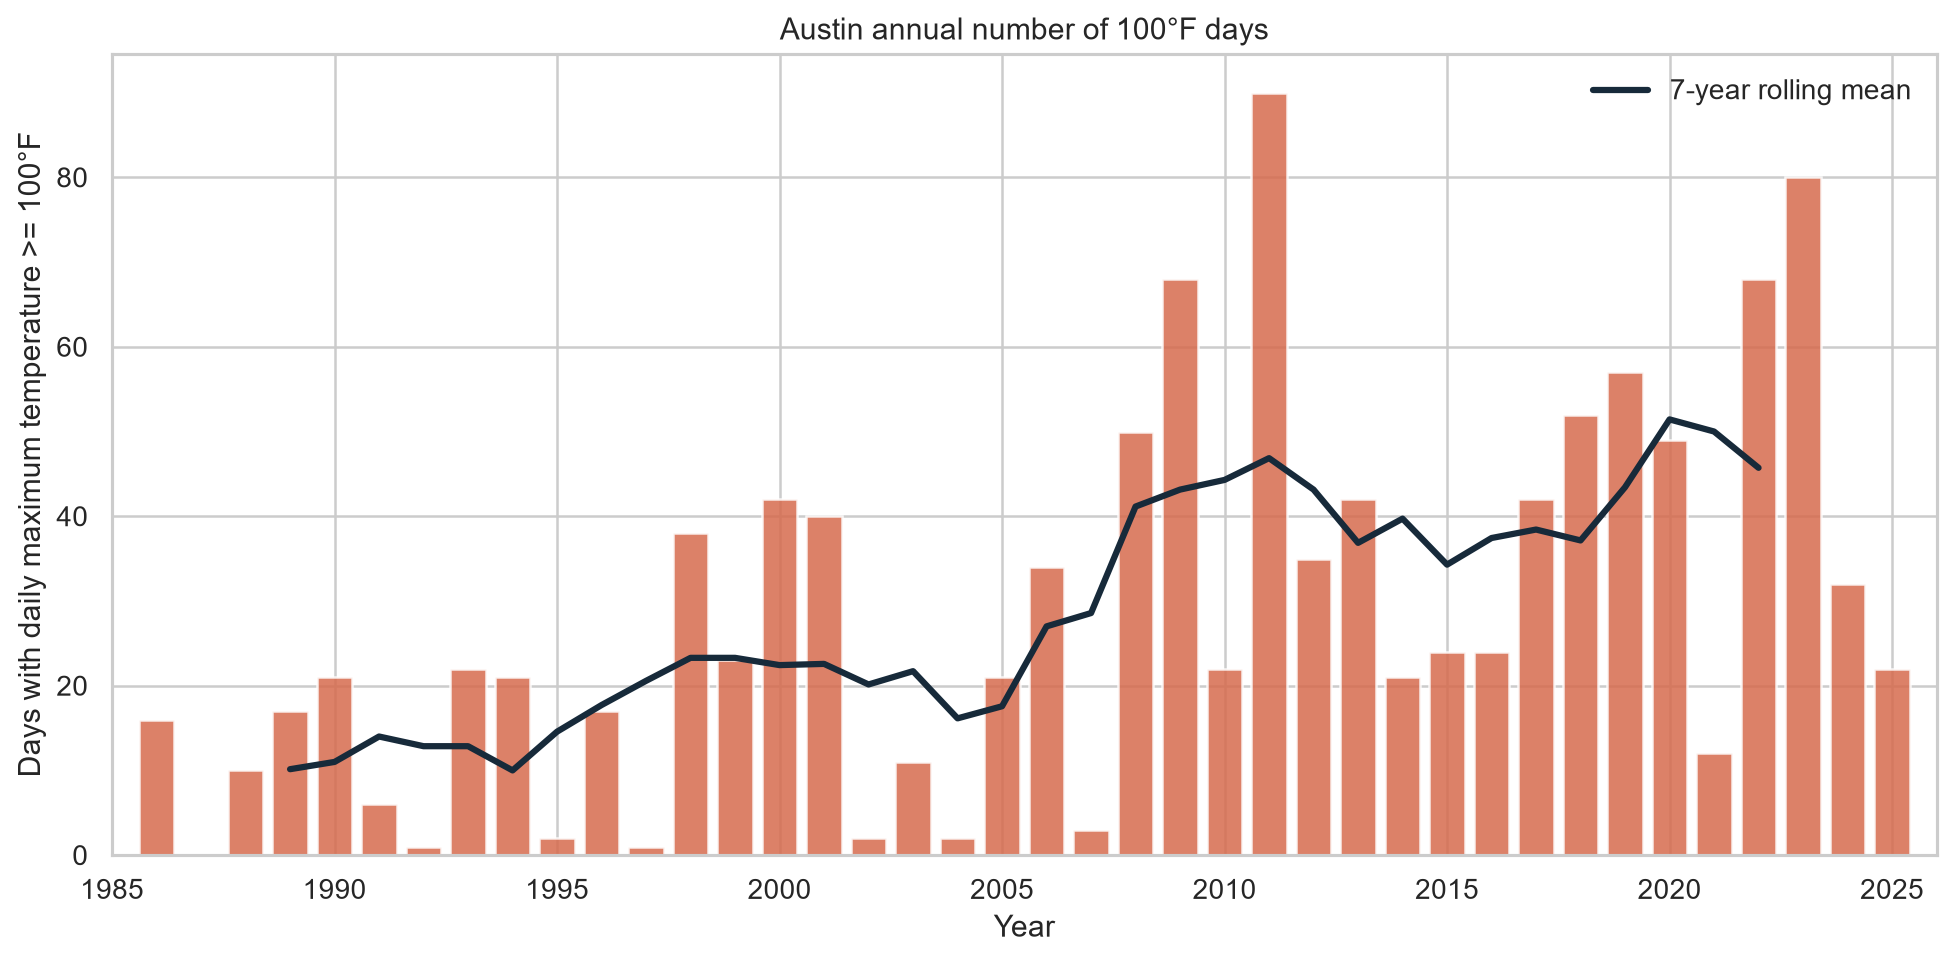
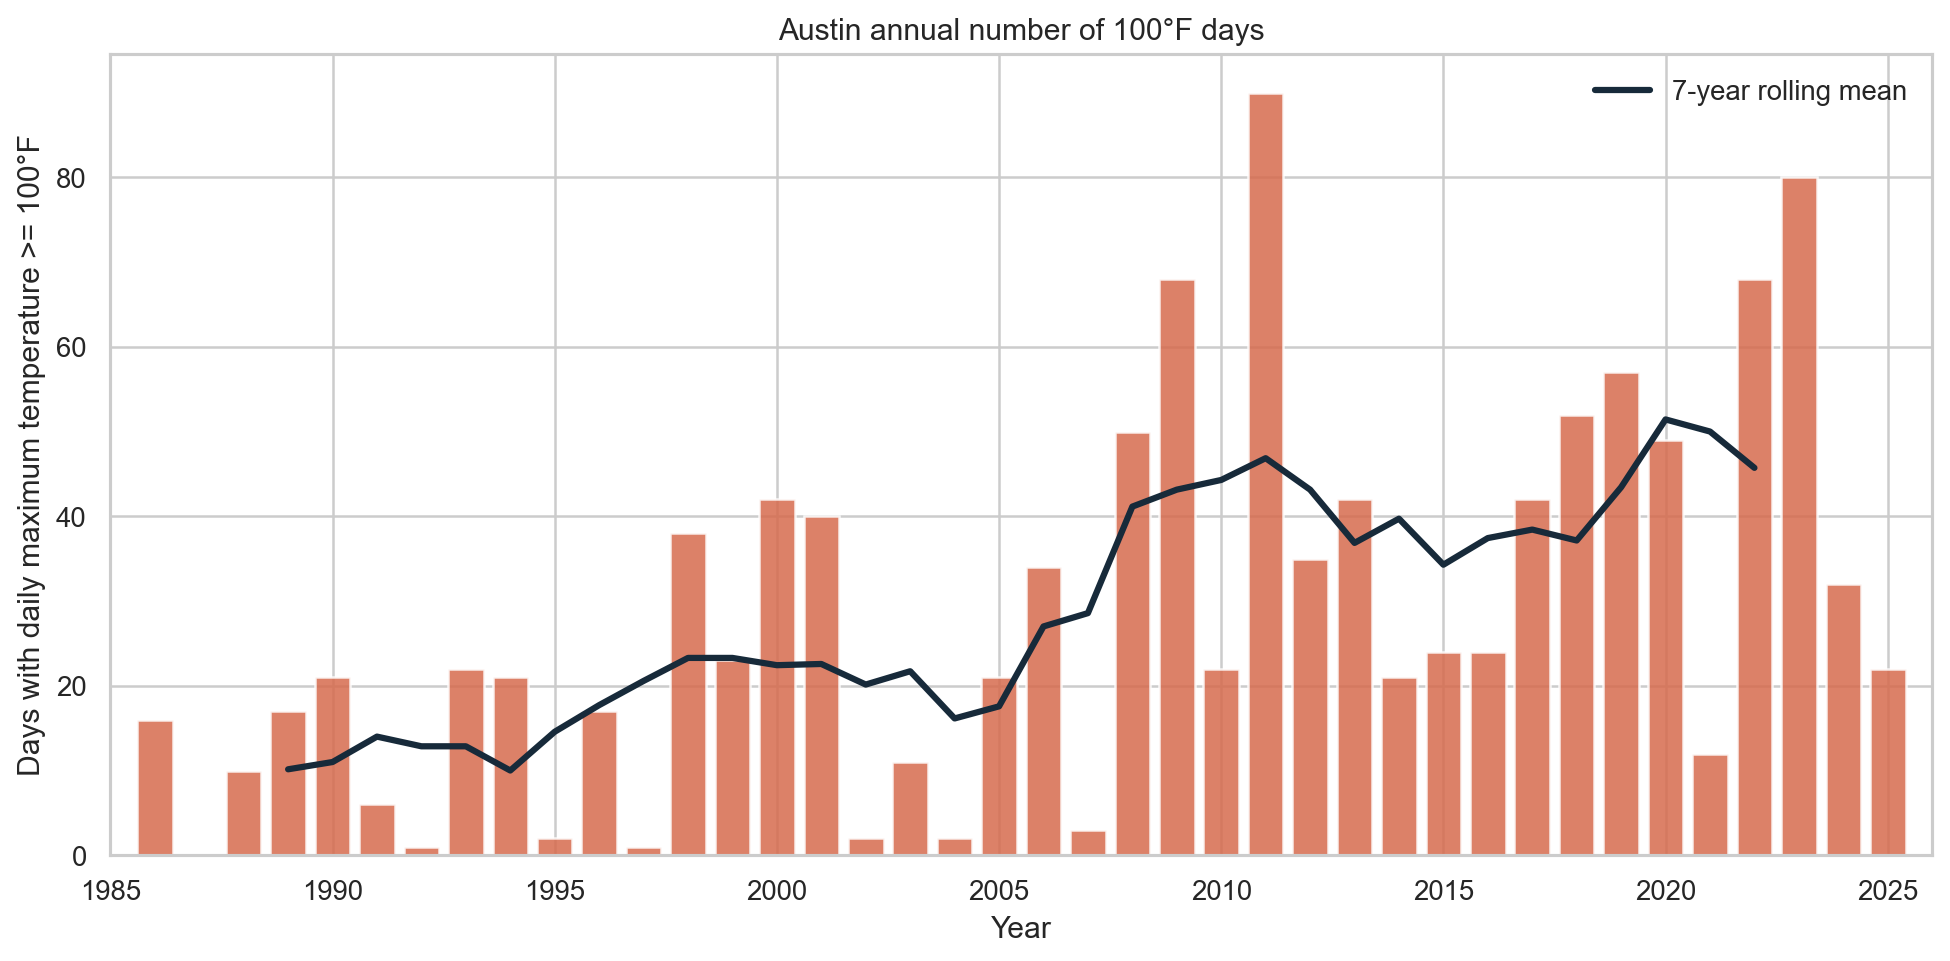
Make year cutoffs dynamic so charts auto-exclude only the current incomplete year

diff --git a/outputs/hot_days_per_year.py b/outputs/hot_days_per_year.py
@@ -1,3 +1,4 @@
+from datetime import date
 from pathlib import Path
 
 import matplotlib.pyplot as plt
@@ -7,16 +8,22 @@ import seaborn as sns
 
 THRESHOLD_C = (100 - 32) / 1.8
 START_YEAR = 1986
-END_YEAR = 2025
 
 
-def count_hot_days(weather: pd.DataFrame) -> pd.DataFrame:
+def last_complete_year(today: date | None = None) -> int:
+    """Return the most recently finished calendar year relative to today."""
+    return (today or date.today()).year - 1
+
+
+def count_hot_days(weather: pd.DataFrame, end_year: int | None = None) -> pd.DataFrame:
     """Count complete-year days with a daily maximum temperature of at least 100 F."""
+    if end_year is None:
+        end_year = last_complete_year()
     data = weather.copy()
     data["time"] = pd.to_datetime(data["time"], errors="coerce")
     data = data.dropna(subset=["time", "tmax"])
     data["year"] = data["time"].dt.year
-    data = data[data["year"].between(START_YEAR, END_YEAR)]
+    data = data[data["year"].between(START_YEAR, end_year)]
     data["is_hot_day"] = data["tmax"] >= THRESHOLD_C
 
     return (
@@ -26,7 +33,9 @@ def count_hot_days(weather: pd.DataFrame) -> pd.DataFrame:
     )
 
 
-def create_chart(yearly_hot_days: pd.DataFrame, output_path: Path) -> None:
+def create_chart(yearly_hot_days: pd.DataFrame, output_path: Path, end_year: int | None = None) -> None:
+    if end_year is None:
+        end_year = last_complete_year()
     sns.set_theme(style="whitegrid", context="notebook")
     fig, ax = plt.subplots(figsize=(11, 5.5))
     colors = ["#d66b4d" if value > 0 else "#2f6f95" for value in yearly_hot_days["hot_days"]]
@@ -44,7 +53,7 @@ def create_chart(yearly_hot_days: pd.DataFrame, output_path: Path) -> None:
         xlabel="Year",
         ylabel="Days with daily maximum temperature >= 100°F",
     )
-    ax.set_xlim(START_YEAR - 1, END_YEAR + 1)
+    ax.set_xlim(START_YEAR - 1, end_year + 1)
     ax.legend(frameon=False)
     fig.tight_layout()
     fig.savefig(output_path, dpi=180, bbox_inches="tight")

diff --git a/tests/test_hot_days_per_year.py b/tests/test_hot_days_per_year.py
@@ -18,7 +18,7 @@ def test_counts_100_degree_days_and_excludes_partial_years():
         }
     )
 
-    result = count_hot_days(weather)
+    result = count_hot_days(weather, end_year=2025)
 
     assert result.to_dict("records") == [
         {"year": 1986, "hot_days": 1},
